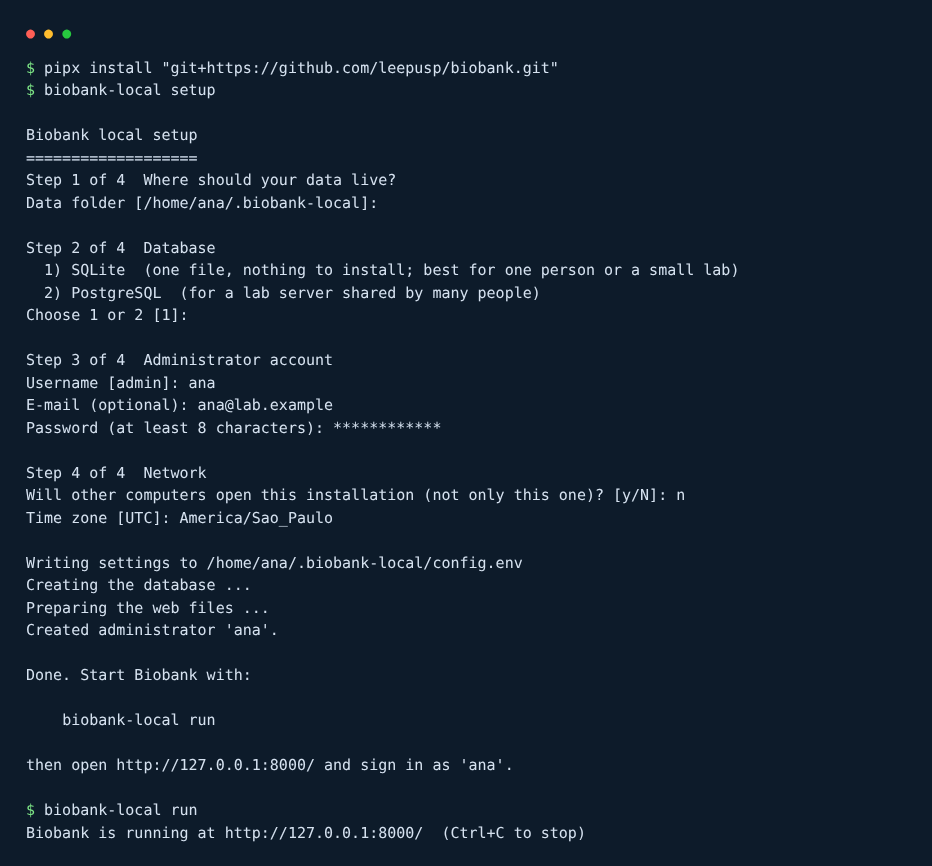
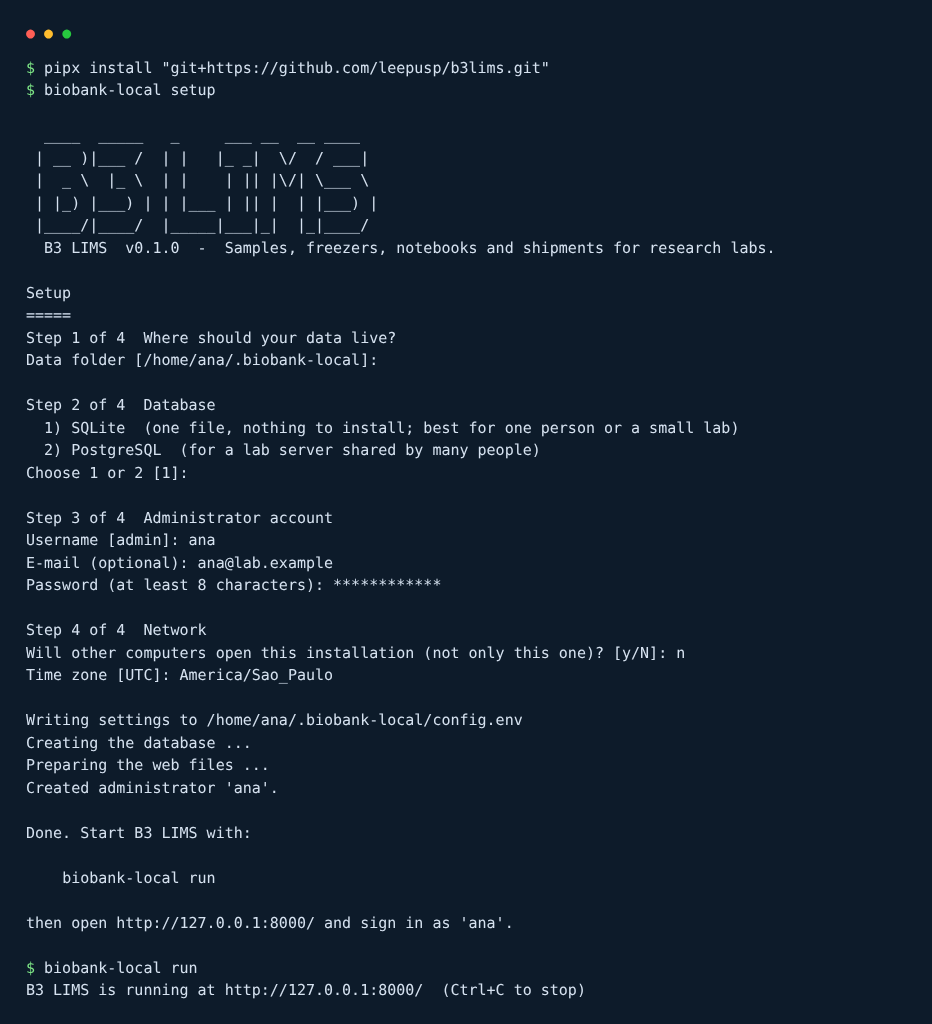
Point links and the setup screenshot at leepusp/b3lims
Repository moved to leepusp/b3lims. README is updated separately, on the server,
because it was edited on GitHub in the meantime.

Claude-Session: https://claude.ai/code/session_015dBUN1LCzfLrqSMKYejk1F

diff --git a/docs/screenshots/terminal.py b/docs/screenshots/terminal.py
@@ -4,11 +4,18 @@ from pathlib import Path
 
 from playwright.sync_api import sync_playwright
 
-TEXT = """$ pipx install "git+https://github.com/leepusp/biobank.git"
+TEXT = """$ pipx install "git+https://github.com/leepusp/b3lims.git"
 $ biobank-local setup
 
-Biobank local setup
-===================
+  ____  _____   _     ___ __  __ ____
+ | __ )|___ /  | |   |_ _|  \\/  / ___|
+ |  _ \\  |_ \\  | |    | || |\\/| \\___ \\
+ | |_) |___) | | |___ | || |  | |___) |
+ |____/|____/  |_____|___|_|  |_|____/
+  B3 LIMS  v0.1.0  -  Samples, freezers, notebooks and shipments for research labs.
+
+Setup
+=====
 Step 1 of 4  Where should your data live?
 Data folder [/home/ana/.biobank-local]:
 
@@ -31,14 +38,14 @@ Creating the database ...
 Preparing the web files ...
 Created administrator 'ana'.
 
-Done. Start Biobank with:
+Done. Start B3 LIMS with:
 
     biobank-local run
 
 then open http://127.0.0.1:8000/ and sign in as 'ana'.
 
 $ biobank-local run
-Biobank is running at http://127.0.0.1:8000/  (Ctrl+C to stop)"""
+B3 LIMS is running at http://127.0.0.1:8000/  (Ctrl+C to stop)"""
 
 HTML = """<html><body style="margin:0;background:#0d1b2a;">
 <div style="padding:22px 26px;font:15px/1.5 'DejaVu Sans Mono',Menlo,monospace;color:#d6e2f0;width:880px">

diff --git a/biobank/branding.py b/biobank/branding.py
@@ -64,7 +64,7 @@ def about(version=""):
         lines.append(f"      {how}")
 
     lines += ["", "Planned:"] + [f"  - {item}" for item in PLANNED]
-    lines += ["", "Documentation: docs/index.md   Source: https://github.com/leepusp/biobank", ""]
+    lines += ["", "Documentation: docs/index.md   Source: https://github.com/leepusp/b3lims", ""]
 
     return "\n".join(lines)
 

diff --git a/docs/install.md b/docs/install.md
@@ -5,7 +5,7 @@ B3 LIMS needs **Python 3.12 or newer** (or Docker). It does not need a cluster, 
 ## Option 1: pipx and the setup wizard
 
 ```bash
-pipx install "git+https://github.com/leepusp/biobank.git"
+pipx install "git+https://github.com/leepusp/b3lims.git"
 biobank-local setup
 biobank-local run
 ```
@@ -22,7 +22,7 @@ To script it, use `biobank-local setup --non-interactive --admin-user NAME --adm
 ## Option 2: Docker Compose
 
 ```bash
-git clone https://github.com/leepusp/biobank.git && cd biobank
+git clone https://github.com/leepusp/b3lims.git && cd b3lims
 BIOBANK_ADMIN_PASSWORD='choose-a-long-password' docker compose up -d
 ```
 
@@ -36,7 +36,7 @@ BIOBANK_ADMIN_PASSWORD=... BIOBANK_DATABASE_URL=postgres://biobank:biobank@db:54
 ## Option 3: from source
 
 ```bash
-git clone https://github.com/leepusp/biobank.git && cd biobank
+git clone https://github.com/leepusp/b3lims.git && cd b3lims
 python -m venv .venv && . .venv/bin/activate
 pip install -e .
 biobank-local setup

diff --git a/docs/index.md b/docs/index.md
@@ -12,12 +12,12 @@ B3 LIMS is an open-source system for the samples, freezers, notebooks and shipme
 | Run it for many people behind HTTPS | [Production deployment](operations/production.md) |
 | Use Slurm, PAM or Jupyter servers | [Clusters (optional)](hpc.md) |
 | See what is planned | [Roadmap](development/local_install_and_eln_roadmap.md) |
-| Contribute code | [Contributing](https://github.com/leepusp/biobank/blob/main/CONTRIBUTING.md) |
+| Contribute code | [Contributing](https://github.com/leepusp/b3lims/blob/main/CONTRIBUTING.md) |
 
 ## The shortest path
 
 ```bash
-pipx install "git+https://github.com/leepusp/biobank.git"
+pipx install "git+https://github.com/leepusp/b3lims.git"
 biobank-local setup --demo
 biobank-local run
 ```

diff --git a/CONTRIBUTING.md b/CONTRIBUTING.md
@@ -5,7 +5,7 @@ Thank you for helping. B3 LIMS is a Django application; English is the language 
 ## Set up for development
 
 ```bash
-git clone https://github.com/leepusp/biobank.git && cd biobank
+git clone https://github.com/leepusp/b3lims.git && cd b3lims
 python -m venv .venv && . .venv/bin/activate
 pip install -r requirements.txt
 python manage.py test --settings=biobank.test_settings
